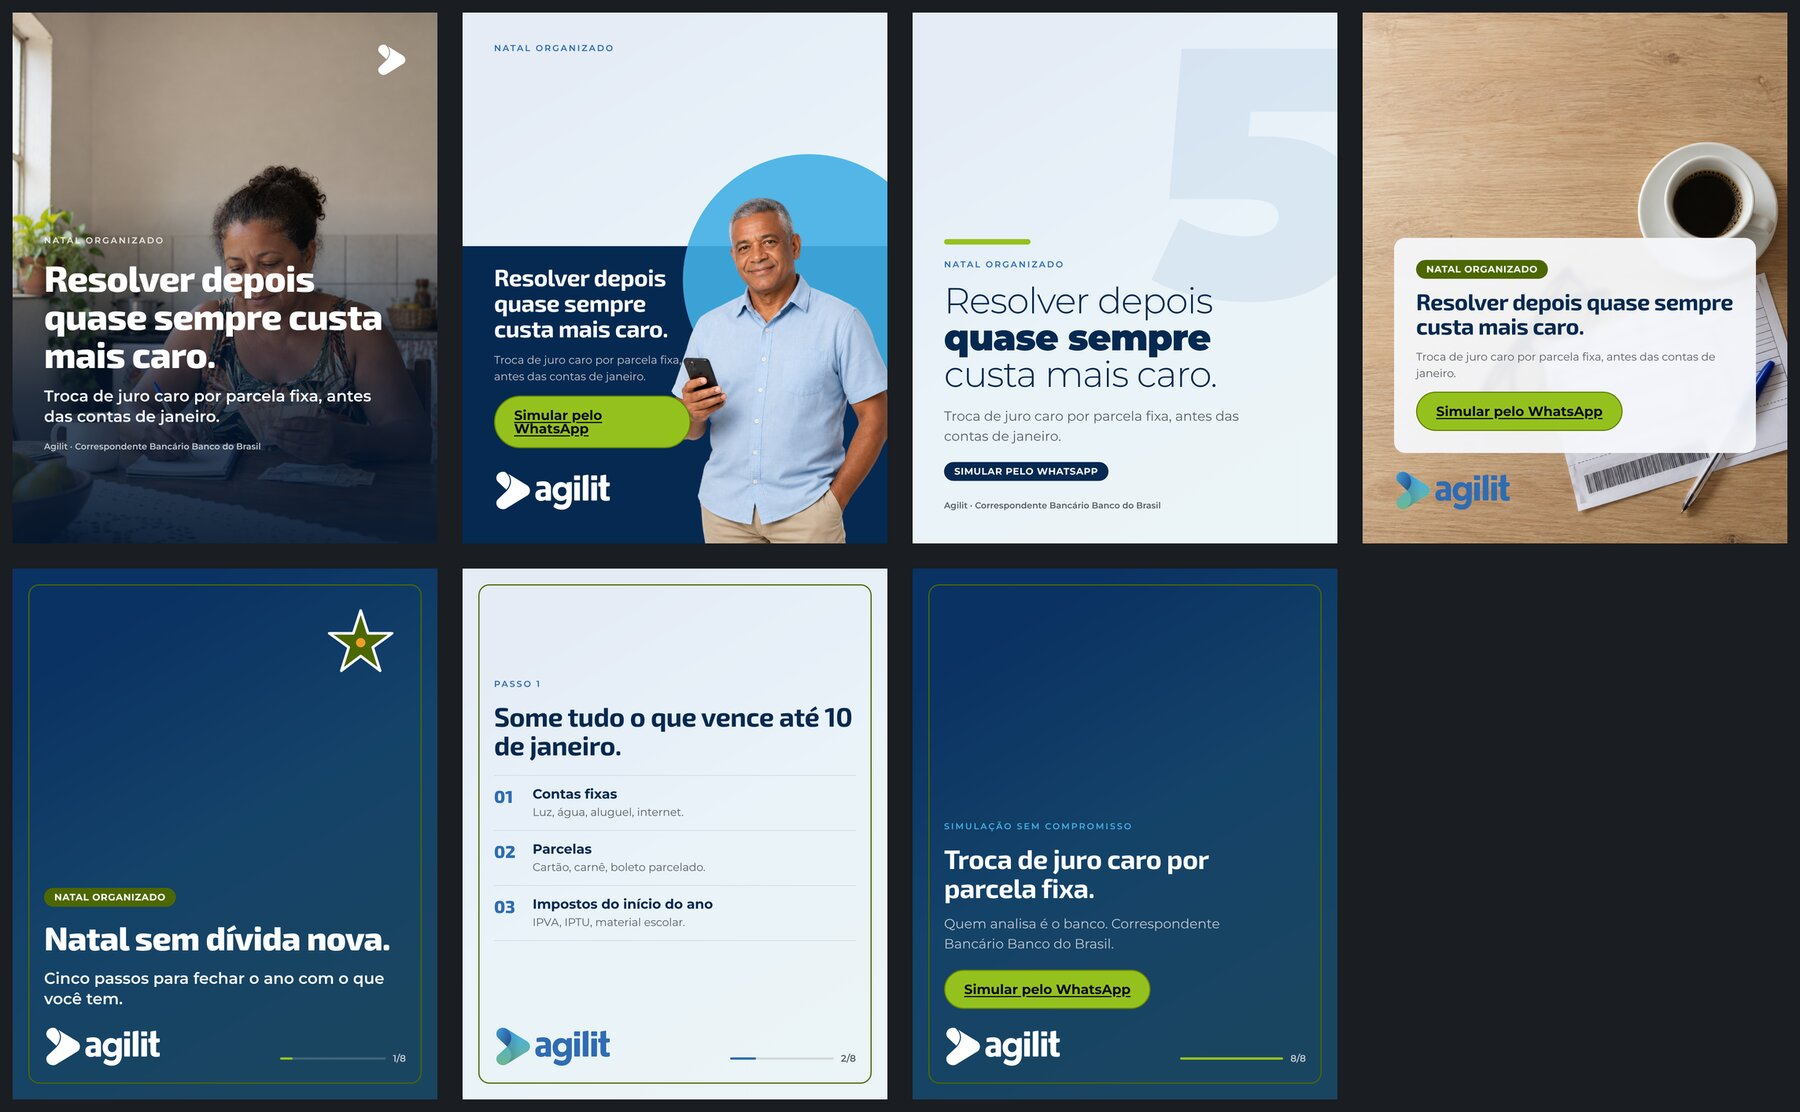
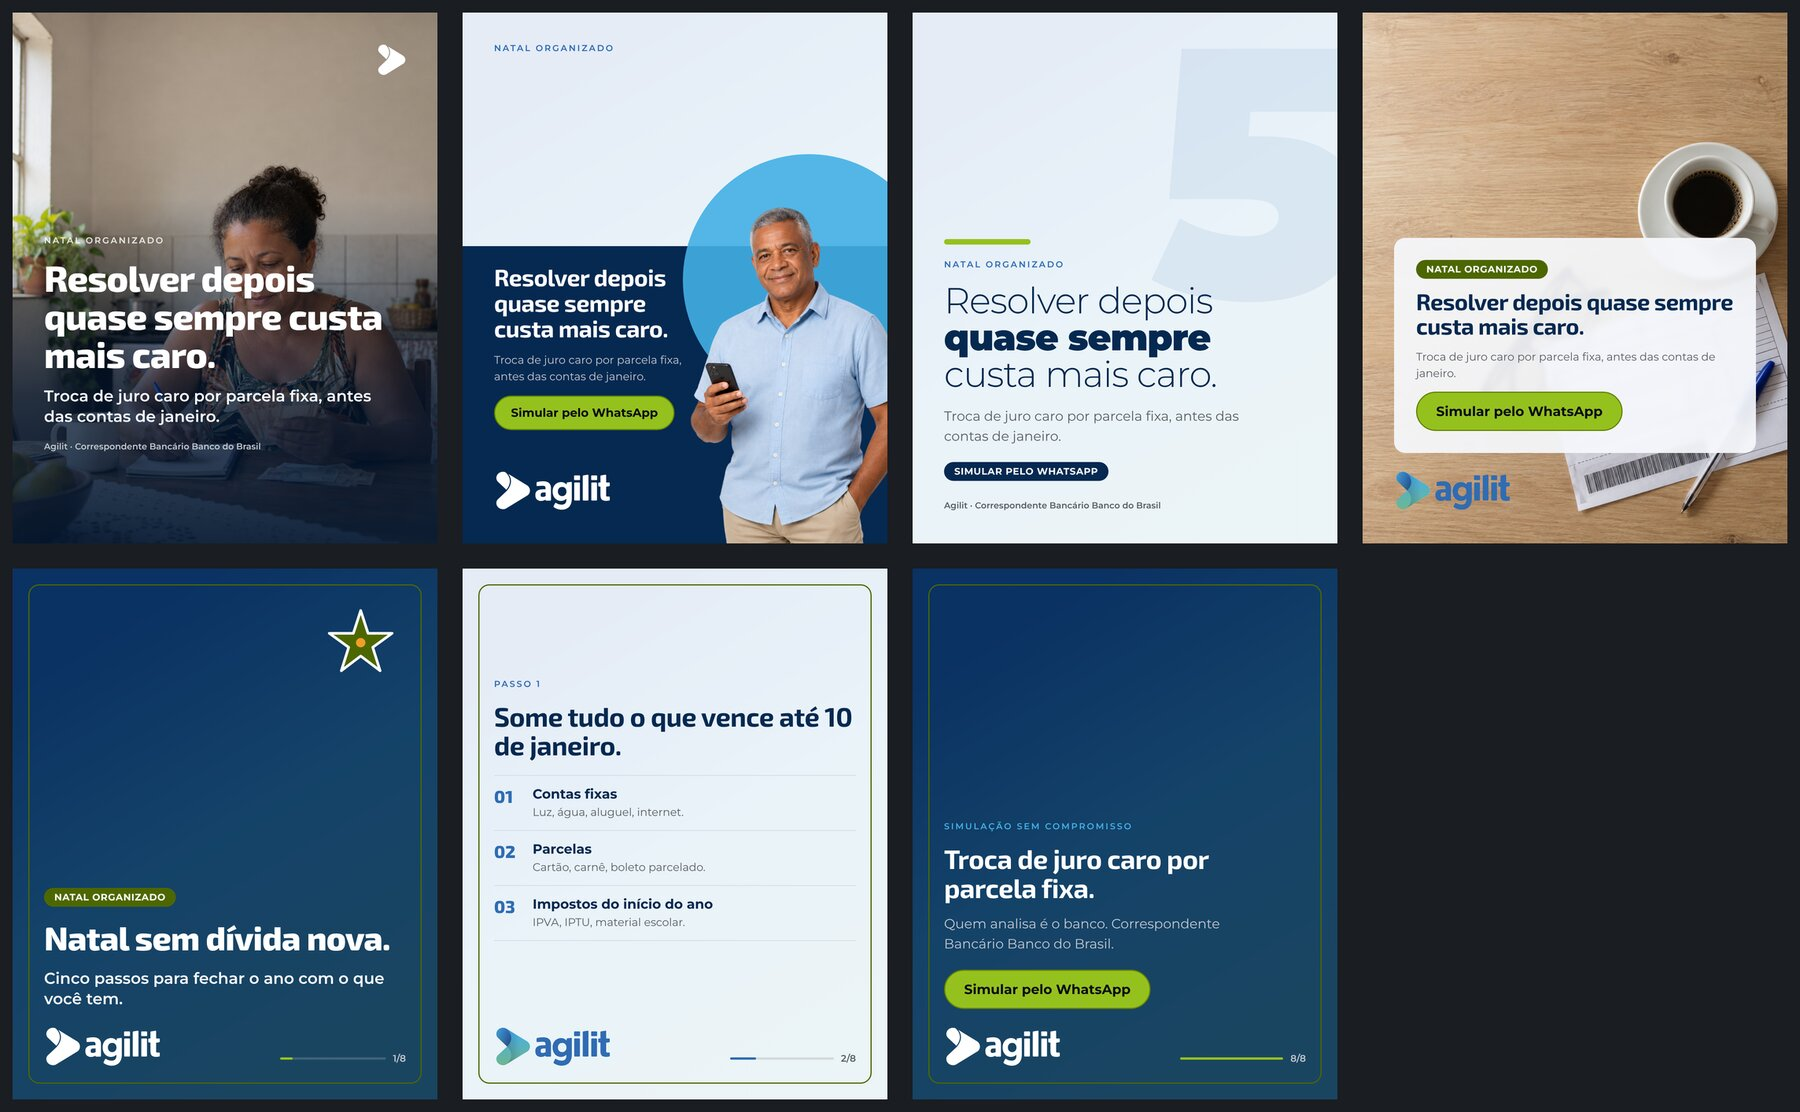
fix(familias): botão sem quebra e pessoa mais à direita na família B; botão sem sublinhado
Claude-Session: https://claude.ai/code/session_01LbwHHXoEG9A1QRHasrnbbj

Changed region(s): [[0.2489, 0.1835, 0.4978, 0.4892]]

diff --git a/estudio/base.css b/estudio/base.css
@@ -48,7 +48,7 @@ p.body { font: 400 34px/1.5 var(--body); color: var(--ink-muted); max-width: 860
 .pill.campanha { background: var(--green-700); color: #fff; }
 .pill.outline { border: 2px solid var(--border); color: var(--ink-muted); }
 .pill.navy { background: var(--bg-dark); color: #fff; }
-.btn { display: inline-flex; align-self: flex-start; align-items: center; gap: 16px; padding: 30px 48px; border-radius: 999px; background: var(--cta-bg); color: var(--cta-text); font: 700 34px/1 var(--body); border: 3px solid var(--cta-border); }
+.btn { text-decoration: none; display: inline-flex; align-self: flex-start; align-items: center; gap: 16px; padding: 30px 48px; border-radius: 999px; background: var(--cta-bg); color: var(--cta-text); font: 700 34px/1 var(--body); border: 3px solid var(--cta-border); }
 .btn svg { width: 34px; height: 34px; }
 .assinatura { font: 600 22px/1.4 var(--body); color: var(--ink-muted); }
 .navy .assinatura, .foto .assinatura { color: var(--ink-muted-on-dark); }

diff --git a/estudio/familias/B-recorte.html b/estudio/familias/B-recorte.html
@@ -8,7 +8,8 @@
   /* B: pessoa recortada sobre bloco azul-marinho e círculo ciano; texto à esquerda; botão limão; marca branca. */
   .b .bloco { height: 56%; }
   .b .circulo { left: 560px; top: 360px; }
-  .b .pessoa { right: -70px; width: 720px; }
+  .b .pessoa { right: -110px; width: 700px; }
+  .b .btn { white-space: nowrap; font-size: 30px; padding: 26px 40px; }
   .b .topo { position: absolute; left: var(--margem); top: var(--margem); }
   .b .texto { position: absolute; left: var(--margem); top: 640px; width: 500px; display: flex; flex-direction: column; gap: 28px; }
   .b h2 { color: #fff; margin: 0; font-size: 60px; }
